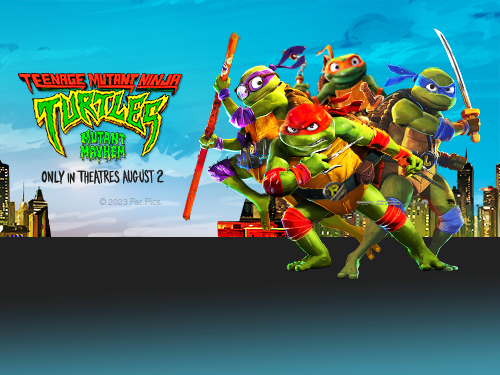
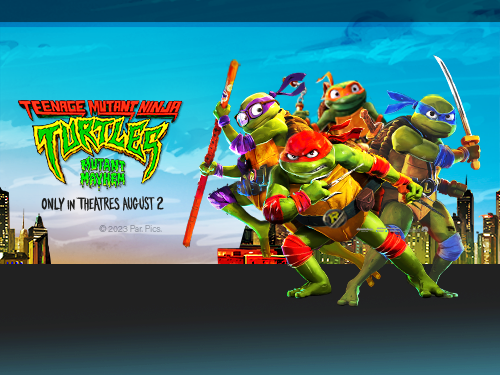
Updates to add TMNT and Prehistoric to homepage (#5982)
* Updates to add TMNT and Prehistoric to homepage

* Updating turtle imgs

diff --git a/docs/inter-maps.md b/docs/inter-maps.md
@@ -13,8 +13,6 @@
   "description": "Make a Galaga-style game by following this short series of tutorials. You will create a rocket that transmits information to satellites, dodge asteroids, create amazing animations, and MORE!",
   "imageUrl":  "/static/skillmap/backgrounds/galaxy-map.png",
   "url": "https://arcade.makecode.com/--skillmap#galaxy",
-  "label": "Limited time only",
-  "labelClass": "purple ribbon",
   "directOpen": true
 },
 {
@@ -31,6 +29,14 @@
   "description": "Code a text-based adventure game using your own images, storyline, and music score!",
   "imageUrl": "/static/skillmap/backgrounds/adventure-map.png",
   "url": "https://arcade.makecode.com/--skillmap#adventure",
+  "directOpen": true
+},
+{
+  "name": "Sparks Flying",
+  "cardType": "link",
+  "description": "Transport yourself back to prehistoric Israel at the turn of winter.  Follow these simple instructions to create a clicker game that sparks a fire for the win!",
+  "imageUrl":  "/static/skillmap/backgrounds/sparks-map.png",
+  "url": "https://arcade.makecode.com/--skillmap#sparks",
   "directOpen": true
 },
 {

diff --git a/docs/multiplayer-tutorials.md b/docs/multiplayer-tutorials.md
@@ -7,6 +7,13 @@
 [
 
 {
+  "name": "Pizza Party",
+  "description": "Create a quick multiplayer game where you try to gather as much pizza as possible before your friends knock away your points!",
+  "url": "/tutorials/pizza-party",
+  "cardType": "tutorial",
+  "imageUrl": "/static/tutorials/pizza-party/pizza-party-img.png",
+  "largeImageUrl": "/static/tutorials/pizza-party/tmnt.gif"
+},{
   "name": "Arrow Battle",
   "description": "This quick tutorial will help you create a multiplayer game where you test your reflexes to be the fastest to hit your arrow keys!",
   "url": "/tutorials/arrow",
